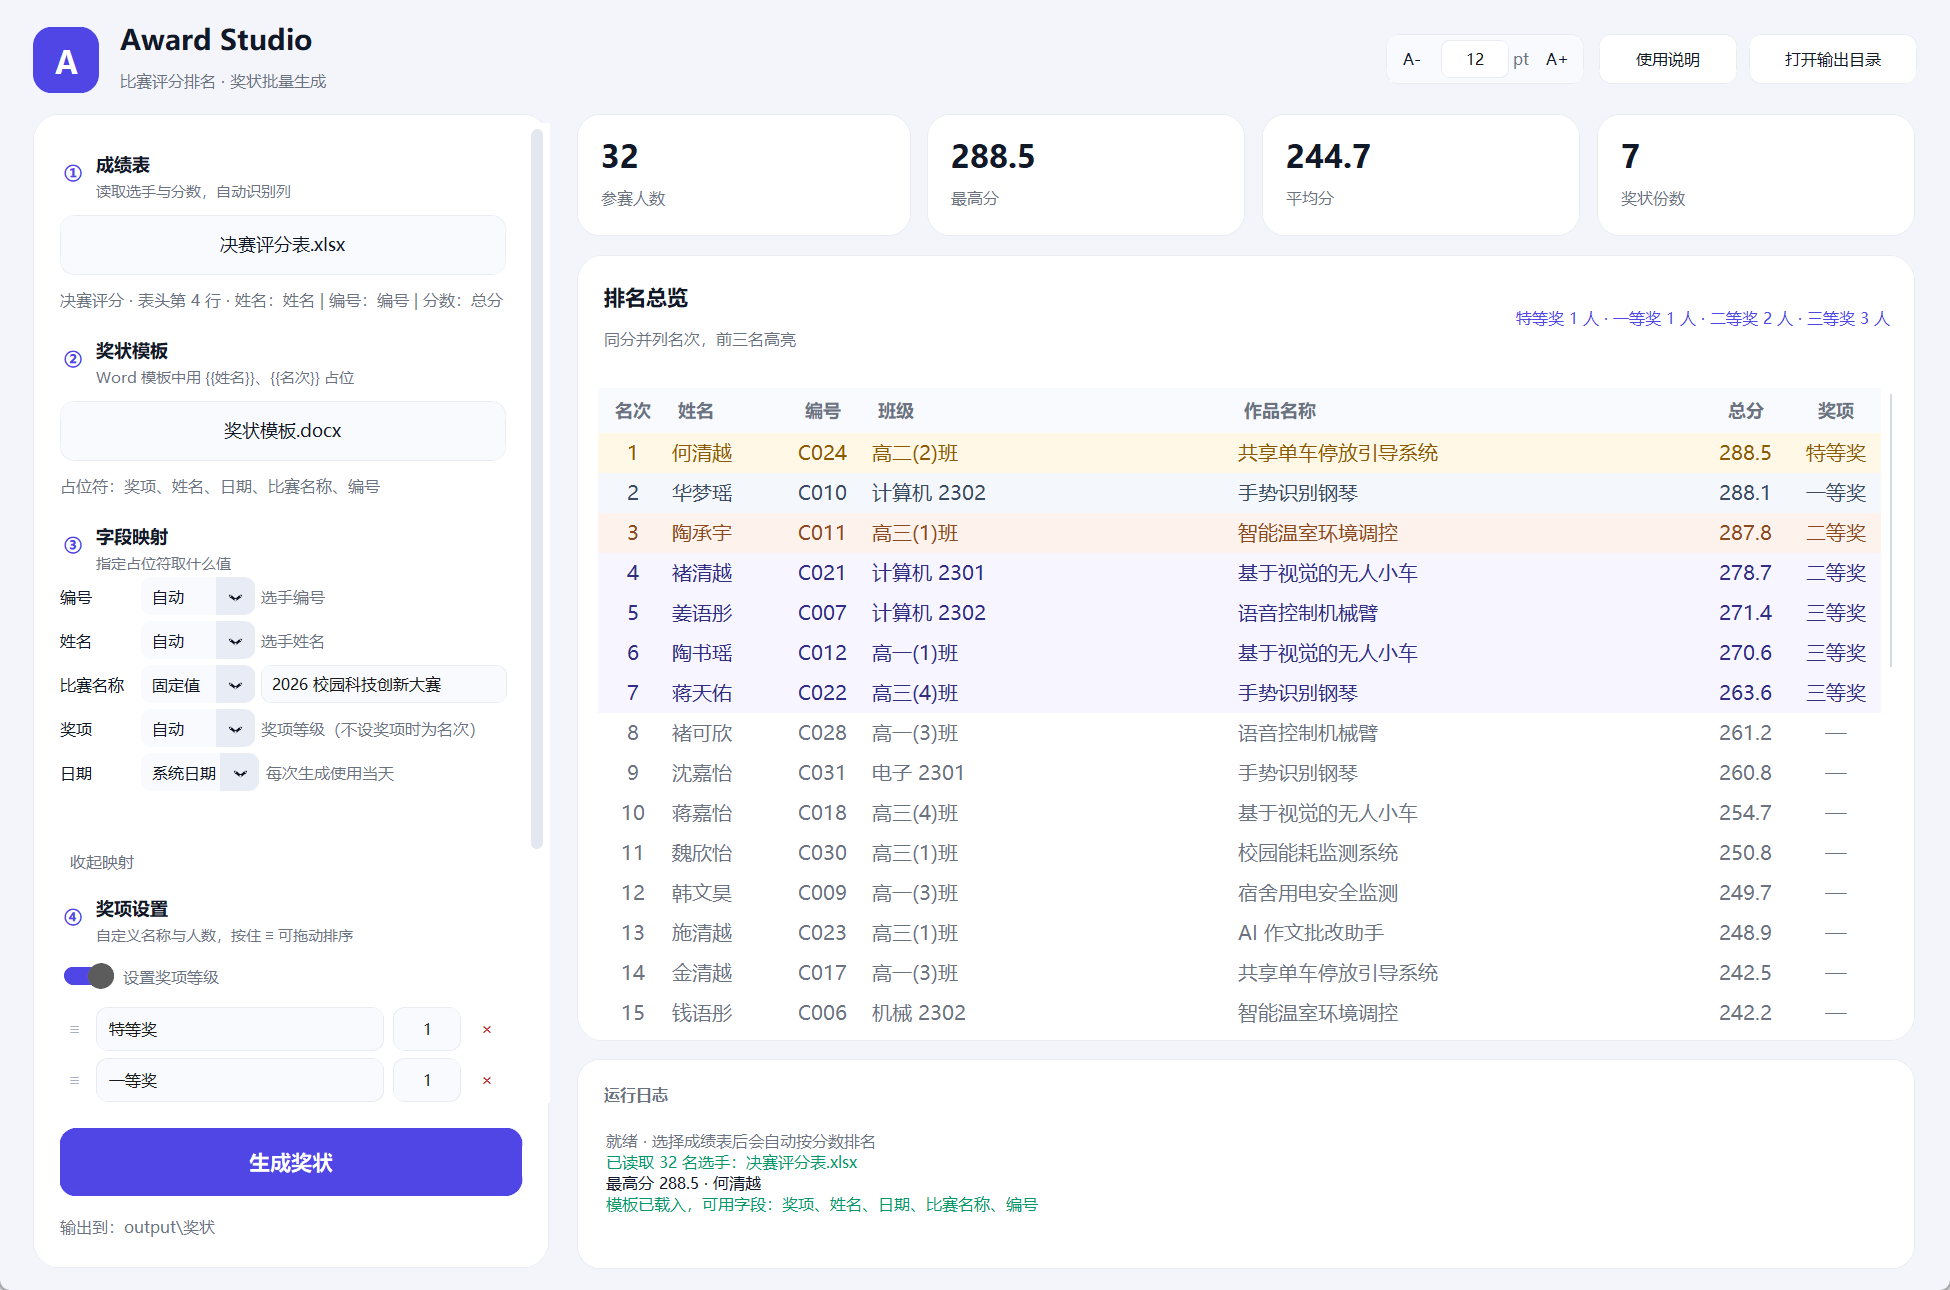
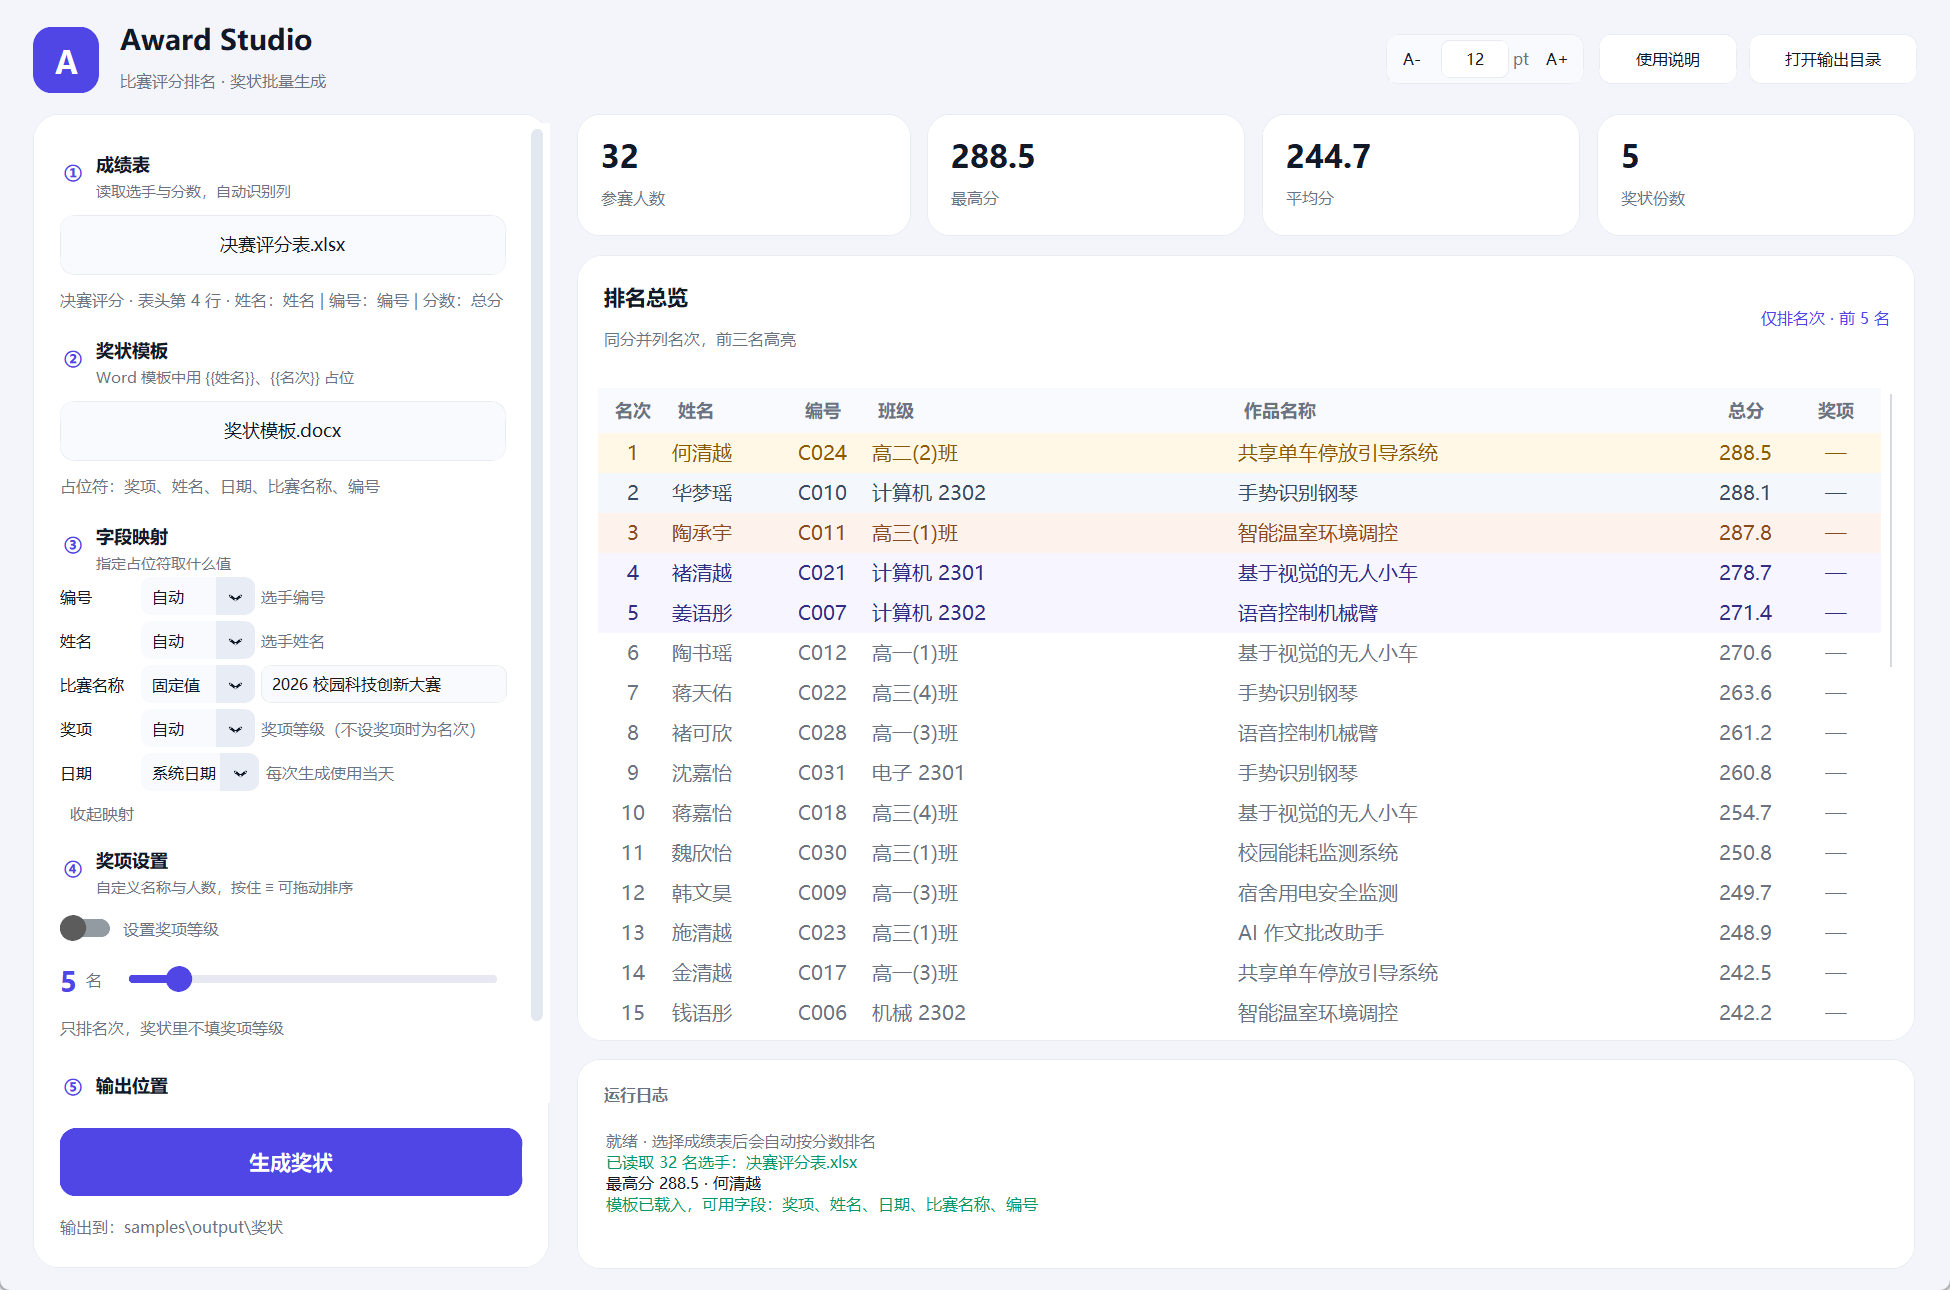
fix: 映射面板默认隐藏、加载模板后展开，名额上限跟随人数
- 映射区放进固定容器：没有模板或没有占位符时整块隐藏，不再留下一段空白
- 默认收起，载入奖状模板后自动展开；收起时按钮显示字段数量
- 修复重开软件后仍显示上次映射的问题：没有模板时不再渲染遗留规则
- 修复映射行被追加到面板末尾的顺序错乱（pack before 引用了未显示的控件）
- 不设奖项时名额滑块上限改为实际人数（此前写死 20）

diff --git a/app.py b/app.py
@@ -545,7 +545,7 @@ class AwardStudio(ctk.CTk):
             self.excel_hint.configure(wraplength=wrap)
             self.template_hint.configure(wraplength=wrap)
             self._fit_award_rows()
-            if self.field_rules:
+            if self.field_rules and self.template_keys:
                 self._render_mappings()
         except Exception:  # noqa: BLE001 - 控件还没建好时跳过
             return
@@ -749,21 +749,21 @@ class AwardStudio(ctk.CTk):
 
         # ③ 字段映射
         self._step_title(wrap, "③", "字段映射", "指定占位符取什么值")
-        self.mapping_box = ctk.CTkFrame(wrap, fg_color="transparent")
-        self.mapping_box.pack(fill="x")
+        # 固定容器：内部控件按需显示，容器本身始终占位以保持顺序（内容为空时不占高度）
+        self.mapping_section = ctk.CTkFrame(wrap, fg_color="transparent")
+        self.mapping_section.pack(fill="x")
+        self.mapping_box = ctk.CTkFrame(self.mapping_section, fg_color="transparent")
         self.mapping_hint = ctk.CTkLabel(
-            wrap, text="选择奖状模板后，这里会列出模板里的占位符",
+            self.mapping_section, text="选择奖状模板后，这里会列出模板里的占位符",
             font=self.font_small, text_color=MUTED, anchor="w",
             justify="left", wraplength=286,
         )
-        self.mapping_hint.pack(fill="x", pady=(4, 0))
         self.mapping_toggle = ctk.CTkButton(
-            wrap, text="收起映射", height=22, fg_color="transparent",
+            self.mapping_section, text="收起映射", height=22, fg_color="transparent",
             hover_color="#F1F4FA", text_color=MUTED, font=self.font_small,
             anchor="w", command=self._toggle_mappings,
         )
-        self.mapping_toggle.pack(fill="x", pady=(2, 0))
-        self.mapping_open = True
+        self.mapping_open = False
 
         # ④ 奖项
         self._step_title(wrap, "④", "奖项设置", "自定义名称与人数，按住 ≡ 可拖动排序")
@@ -998,9 +998,10 @@ class AwardStudio(ctk.CTk):
             self.output_dir = path.parent / "output" / "奖状"
         self._update_output_hint()
 
-        self.max_winners = max(1, min(len(players), 50))
-        self.slider.configure(to=max(1, min(20, self.max_winners)),
-                              number_of_steps=max(1, min(20, self.max_winners) - 1))
+        # 名额上限跟着人数走，表格里有多少人就能选多少
+        total = max(1, len(players))
+        self.max_winners = total
+        self.slider.configure(to=total, number_of_steps=max(1, total - 1))
         self.winners = min(self.winners, self.max_winners)
         self.slider.set(self.winners)
         self.qty_label.configure(text=str(self.winners))
@@ -1035,6 +1036,7 @@ class AwardStudio(ctk.CTk):
                 text_color=WARNING,
             )
             self._log("模板里没有找到 {{ }} 占位符，生成时会失败", "warn")
+        self.mapping_open = True
         self._refresh_field_rules()
         self._sync_buttons()
 
@@ -1157,15 +1159,29 @@ class AwardStudio(ctk.CTk):
 
     # -------------------------------------------------------------- 字段映射
     def _toggle_mappings(self) -> None:
-        self.mapping_open = not getattr(self, "mapping_open", True)
+        self.mapping_open = not getattr(self, "mapping_open", False)
+        self._sync_mapping_visibility()
+
+    def _sync_mapping_visibility(self) -> None:
+        """没有模板或没有占位符时整块隐藏，避免留白。"""
+        has_fields = bool(self.field_rules) and bool(self.template_keys)
+        if not has_fields:
+            self.mapping_box.pack_forget()
+            self.mapping_hint.pack_forget()
+            self.mapping_toggle.pack_forget()
+            return
+        self.mapping_hint.pack_forget()
+        # 先按钮后列表，保证容器内顺序稳定
+        if not self.mapping_toggle.winfo_ismapped():
+            self.mapping_toggle.pack(fill="x", pady=(2, 0))
         if self.mapping_open:
-            self.mapping_box.pack(fill="x", before=self.mapping_toggle)
+            if not self.mapping_box.winfo_ismapped():
+                self.mapping_box.pack(fill="x", before=self.mapping_toggle)
             self.mapping_toggle.configure(text="收起映射")
         else:
             self.mapping_box.pack_forget()
-            count = len(self.field_rules)
             self.mapping_toggle.configure(
-                text=f"展开映射（{count} 个字段）" if count else "展开映射")
+                text=f"展开映射（{len(self.field_rules)} 个字段）")
 
     def _column_names(self) -> list[str]:
         if self.players:
@@ -1190,11 +1206,9 @@ class AwardStudio(ctk.CTk):
     def _render_mappings(self) -> None:
         for child in self.mapping_box.winfo_children():
             child.destroy()
-        if not self.field_rules:
-            self.mapping_hint.configure(
-                text="选择奖状模板后，这里会列出模板里的占位符")
+        if not self.field_rules or not self.template_keys:
+            self._sync_mapping_visibility()
             return
-        self.mapping_hint.configure(text="")
         for rule in self.field_rules:
             row = ctk.CTkFrame(self.mapping_box, fg_color="transparent")
             row.pack(fill="x", pady=1)
@@ -1215,6 +1229,7 @@ class AwardStudio(ctk.CTk):
             holder = ctk.CTkFrame(row, fg_color="transparent")
             holder.pack(side="left", fill="x", expand=True)
             self._build_mapping_value(holder, rule)
+        self._sync_mapping_visibility()
 
     def _build_mapping_value(self, holder, rule) -> None:
         height = self._px(26)
